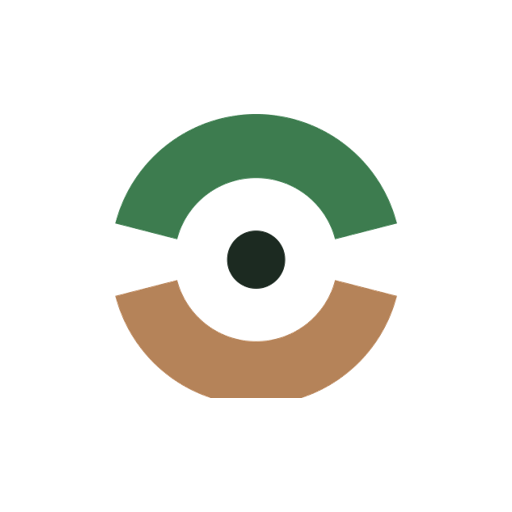
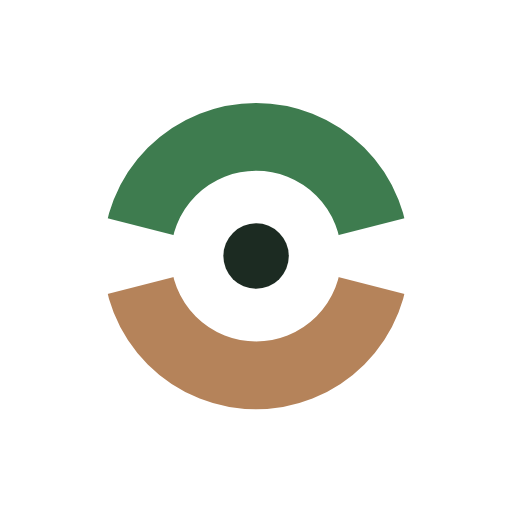
feat(frontend): navegação lateral com marca única e conta unificada
- símbolo da marca redesenhado em SVG (simétrico, sem corte) e ícones
  do app gerados a partir dele
- marca só na barra lateral; o painel começa direto no título da seção
- um único botão de conta (avatar) com idioma, exportação, privacidade,
  sair e excluir conta; sai o rodapé fixo do painel
- item ativo da barra em destaque escuro, como no restante da marca
- sai o botão laranja de nova propriedade do topo do mapa
- seletor de idioma no componente de lista do projeto

diff --git a/frontend/src/pages/Dashboard.tsx b/frontend/src/pages/Dashboard.tsx
@@ -1,8 +1,7 @@
 import {lazy,Suspense,useEffect,useMemo,useState} from 'react'
 import {useQuery,useQueryClient} from '@tanstack/react-query'
 import {useNavigate} from 'react-router-dom'
-import {ArrowUpRight,CalendarDays,Check,ChevronDown,ChevronLeft,CloudSun,Download,Edit3,Grid2X2,Layers3,Leaf,LogOut,MapPinned,MessageSquare,PanelLeftOpen,Plus,Route,Search,Settings2,ShieldCheck,Sparkles,Sprout,Trash2,X} from 'lucide-react'
-import Brand from '../components/Brand'
+import {ArrowUpRight,CalendarDays,Check,ChevronDown,ChevronLeft,CloudSun,Download,Edit3,Grid2X2,Layers3,Leaf,LogOut,MapPinned,MessageSquare,PanelLeftOpen,Plus,Route,Search,ShieldCheck,Sparkles,Sprout,Trash2,X} from 'lucide-react'
 import FarmForm from '../components/FarmForm'
 import LanguagePicker from '../components/LanguagePicker'
 import {TerrainMapView,type ViewMode} from '../components/TerrainMapView'
@@ -36,14 +35,14 @@ export default function Dashboard(){
  async function deleteAccount(){if(!user)return;setBusy(true);setError('');try{await api('/privacy/account',{method:'DELETE',body:JSON.stringify({email:user.email,password})});qc.clear();location.assign('/login')}catch(e){setError((e as Error).message)}finally{setBusy(false)}}
  const declared=layer==='ph'?farm?.soil.ph:layer==='materia_organica'?farm?.soil.organic_matter_percent:layer==='solo'?t(({unknown:'Não informada',sandy:'Arenoso',loamy:'Franco',clayey:'Argiloso',silty:'Siltoso'})[farm?.soil.texture??'unknown']):layer==='cultivo'?t(farm?.crop??''):layer==='irrigacao'?t(({unknown:'Não informado',rainfed:'Sequeiro',irrigated:'Irrigado',mixed:'Misto'})[farm?.soil.irrigation??'unknown']):null
  return <div className={`terra-workspace ${open?'':'panel-closed'}`}>
- <nav className="function-rail" aria-label={t('Navegação principal')}><a className="rail-logo" href={IS_DEMO?'/demo':'/app'} aria-label="TerraTurn"><img src="/favicon.png" alt=""/></a><div className="rail-functions">{NAV.map(n=><button key={n.id} className={panel===n.id&&open?'active':''} title={t(n.label)} aria-label={t(n.label)} aria-expanded={panel===n.id&&open} onClick={()=>{if(panel===n.id)setOpen(!open);else go(n.id)}}><n.icon size={21}/><span>{t(n.label)}</span></button>)}</div><div className="rail-bottom"><button title={t('Configurações')} aria-label={t('Configurações')} onClick={()=>{setError('');setSettings(true)}}><Settings2 size={20}/><span>{t('Configurações')}</span></button><button className="rail-avatar" aria-label={t('Minha conta')} onClick={()=>setSettings(true)}>{user?.name?.slice(0,1).toUpperCase()??'T'}</button></div></nav>
- {open&&<aside className="workspace-panel"><header className="panel-header"><div className="panel-brand"><Brand/><button className="icon-btn" title={t('Recolher painel')} aria-label={t('Recolher painel')} onClick={()=>setOpen(false)}><ChevronLeft size={19}/></button></div><span className="workspace-eyebrow">{t('INTELIGÊNCIA PARA O SOLO')}</span><h1>{t(nav.label)}</h1><p>{t(nav.subtitle)}</p></header>
+ <nav className="function-rail" aria-label={t('Navegação principal')}><a className="rail-logo" href={IS_DEMO?'/demo':'/app'} aria-label="TerraTurn"><img src="/brand-mark.svg" alt=""/></a><div className="rail-functions">{NAV.map(n=><button key={n.id} className={panel===n.id&&open?'active':''} title={t(n.label)} aria-label={t(n.label)} aria-expanded={panel===n.id&&open} onClick={()=>{if(panel===n.id)setOpen(!open);else go(n.id)}}><n.icon size={21}/><span>{t(n.label)}</span></button>)}</div><div className="rail-bottom"><button className="rail-avatar" title={t('Conta e preferências')} aria-label={t('Conta e preferências')} onClick={()=>{setError('');setSettings(true)}}>{user?.name?.slice(0,1).toUpperCase()??'T'}<span>{t('Conta e preferências')}</span></button></div></nav>
+ {open&&<aside className="workspace-panel"><header className="panel-header"><div className="panel-brand"><span className="workspace-eyebrow">{t('INTELIGÊNCIA PARA O SOLO')}</span><button className="icon-btn" title={t('Recolher painel')} aria-label={t('Recolher painel')} onClick={()=>setOpen(false)}><ChevronLeft size={19}/></button></div><h1>{t(nav.label)}</h1><p>{t(nav.subtitle)}</p></header>
  {farm&&panel!=='properties'&&<div className="property-select-wrap"><button className="property-selector" aria-expanded={picker} onClick={()=>setPicker(!picker)}><span className="property-select-icon"><Leaf size={17}/></span><span><strong>{farm.name}</strong><small>{farm.municipality} · {formatHa(farm.area_ha)}</small></span><ChevronDown size={16}/></button>{picker&&<div className="workspace-farm-dropdown">{farms.map(f=><button key={f.id} onClick={()=>{select(f.id);setPicker(false)}}>{f.name}{f.id===farm.id&&<Check size={14}/>}</button>)}<button onClick={()=>{setPicker(false);newFarm()}}><Plus size={14}/>{t('Nova propriedade')}</button></div>}</div>}
  <div className="workspace-panel-scroll" tabIndex={0} aria-label={t(nav.label)+' · '+t('conteúdo')}>
  {farmsQuery.isPending?<div className="empty-block">{t('Carregando...')}</div>:farmsQuery.isError?<div className="empty-block"><p>{t('Não foi possível carregar as propriedades.')}</p><button className="btn btn-outline" onClick={()=>farmsQuery.refetch()}>{t('Tentar novamente')}</button></div>:panel==='properties'?<div className="panel-stack"><label className="workspace-search"><Search size={16}/><input aria-label={t('Buscar propriedade')} placeholder={t('Buscar propriedade')} value={search} onChange={e=>setSearch(e.target.value)}/></label><button className="btn btn-primary btn-wide" onClick={newFarm}><Plus size={16}/>{t('Nova propriedade')}</button><div className="section-line">{t('SUAS PROPRIEDADES')}<span>{farms.length}</span></div>{farms.filter(f=>(f.name+' '+f.municipality).toLocaleLowerCase().includes(search.toLocaleLowerCase())).map(f=><article className={`property-card ${f.id===farm?.id?'selected':''}`} key={f.id}><button className="property-card-main" onClick={()=>select(f.id)}><div className="property-art"><Sprout size={24}/><span>{formatHa(f.area_ha)}</span></div><strong>{f.name}</strong><small>{f.municipality} · {f.state}</small><p>{f.crop?t(f.crop):t('Cultura a definir pela IA')}</p></button><footer><button onClick={()=>setEditor({farm:f})}><Edit3 size={13}/>{t('Editar')}</button><button title={t('Excluir propriedade')} aria-label={t('Excluir propriedade')+' '+f.name} onClick={()=>{setError('');setRemoving(f)}}><Trash2 size={14}/></button></footer></article>)}{!farms.length&&<p className="fine-print">{t('Nenhuma propriedade cadastrada ainda.')}</p>}</div>:!farm?<div className="empty-block"><Sprout size={32}/><h2>{t('Vamos começar pela sua terra.')}</h2><button className="btn btn-primary" onClick={newFarm}>{t('Cadastrar propriedade')}</button></div>:panel==='overview'?<OverviewPanel farm={farm} context={context} onPlan={()=>go('planning')} onEdit={edit}/>:panel==='planning'?<PlanningPanel key={farm.id+farm.updated_at} farm={farm} context={context} onEdit={edit} onRefresh={()=>contextQuery.refetch()}/>:panel==='climate'?<ClimatePanel context={context} onRefresh={()=>contextQuery.refetch()} isFetching={contextQuery.isFetching} error={contextQuery.isError}/>:panel==='layers'?<LayersPanel/>:<Assistant key={farm.id} farm={farm} onEdit={edit} onNew={newFarm} onChangeCrop={changeCrop}/>}
- </div><footer className="panel-footer"><span><i/>{t(IS_DEMO?'DEMONSTRAÇÃO · DADOS LOCAIS':'ÁREA DE TRABALHO PRIVADA')}</span><LanguagePicker/></footer></aside>}
+ </div></aside>}
  <main className={`workspace-map ${calendar?'with-calendar':''}`}><div className="map-stage">{farm?(view==='3d'?<Suspense fallback={<div className="map-loading">{t('Carregando terreno...')}</div>}><TerrainPlot farm={farm} monthIndex={(Number(farm.planning.start_month.slice(5))-1+month)%12} layer={layer} onInspect={()=>setInspect(true)}/></Suspense>:<><TerrainMapView farm={farm} mode={view} onInspect={()=>setInspect(true)}/>{view==='hybrid'&&<div className="hybrid-3d-overlay"><Suspense fallback={null}><TerrainPlot farm={farm} monthIndex={(Number(farm.planning.start_month.slice(5))-1+month)%12} layer={layer} transparent/></Suspense></div>}</>):<div className="empty-map"><div className="contour contour-one"/><div className="contour contour-two"/><Sprout size={46}/><h2>{t('Sua próxima safra começa aqui.')}</h2><p>{t('Desenhe sua área e prepare seu planejamento.')}</p><button className="btn btn-primary" onClick={newFarm}><Plus size={16}/>{t('Cadastrar propriedade')}</button></div>}</div>
- <div className="map-toolbar"><div className="map-toolbar-leading">{!open&&<button className="map-square" title={t('Abrir painel')} aria-label={t('Abrir painel')} onClick={()=>setOpen(true)}><PanelLeftOpen size={19}/></button>}<button className="map-search" onClick={()=>go('properties')}><Search size={17}/><span>{t('Encontre sua propriedade')}</span><kbd>⌕</kbd></button></div><div className="map-toolbar-actions"><button className="map-add" onClick={newFarm}><Plus size={17}/><span>{t('Nova propriedade')}</span></button><button className="map-export" disabled={!farm} onClick={()=>farm&&downloadJson(farm,'terraturn-propriedade.json')}><Download size={16}/><span>{t('Exportar')}</span></button></div></div>
+ <div className="map-toolbar"><div className="map-toolbar-leading">{!open&&<button className="map-square" title={t('Abrir painel')} aria-label={t('Abrir painel')} onClick={()=>setOpen(true)}><PanelLeftOpen size={19}/></button>}<button className="map-search" onClick={()=>go('properties')}><Search size={17}/><span>{t('Encontre sua propriedade')}</span><kbd>⌕</kbd></button></div><div className="map-toolbar-actions"><button className="map-export" disabled={!farm} onClick={()=>farm&&downloadJson(farm,'terraturn-propriedade.json')}><Download size={16}/><span>{t('Exportar')}</span></button></div></div>
  {farm&&<><div className="map-view-switch" aria-label={t('VISUALIZAÇÃO')}>{([['satellite','Satélite'],['map','Mapa'],['relief','Relevo'],['3d','3D'],['hybrid','3D + mapa']] as [ViewMode,string][]).map(([v,label])=><button key={v} disabled={(v==='3d'||v==='hybrid')&&!hasWebGL()} title={(v==='3d'||v==='hybrid')&&!hasWebGL()?t('Seu navegador não oferece aceleração 3D.'):t(label)} className={v===view?'active':''} onClick={()=>setView(v)}>{t(label)}</button>)}</div>
  {inspect&&<section className="parcel-inspector"><header><span className="parcel-icon"><Sprout size={18}/></span><div><small>{t('ÁREA DE CULTIVO')}</small><h2>{farm.name}</h2></div><button className="icon-btn" aria-label={t('Fechar detalhes')} onClick={()=>setInspect(false)}><X size={15}/></button></header><div className="parcel-crop"><span>{t('Cultura inicial / atual')}</span><strong>{farm.crop?t(farm.crop):t('A definir pela IA')}</strong><small>{formatHa(farm.area_ha)} · {t('Perímetro cadastrado')}</small></div><div className="parcel-data"><span>{t('CONDIÇÕES DECLARADAS')}</span><dl><div><dt>{t('pH do solo')}</dt><dd>{farm.soil.ph??'—'}</dd></div><div><dt>{t('Matéria orgânica')}</dt><dd>{farm.soil.organic_matter_percent==null?'—':farm.soil.organic_matter_percent+'%'}</dd></div><div><dt>{t('Cultura anterior')}</dt><dd>{farm.previous_crop?t(farm.previous_crop):'—'}</dd></div></dl></div><button className="parcel-insight" onClick={()=>go('planning')}><span><Sparkles size={14}/>{t('Planejamento com IA')}<ArrowUpRight size={14}/></span><p>{t(context?.plan.status==='ready'?'Sequência disponível para revisão.':'Gere a rotação recomendada pela IA com dados da NASA.')}</p></button><button className="parcel-edit" onClick={edit}><Edit3 size={13}/>{t('Editar contexto agrícola')}</button></section>}
  <div className="map-bottom-tools"><button className="map-layer-legend" onClick={()=>go('layers')}><Layers3 size={15}/><span><strong>{t(activeLayer.label)}{declared!=null&&declared!==''?' · '+declared:''}</strong><small>{t(activeLayer.status==='pending'?'Aguardando dados':activeLayer.status==='declared'?'Dado declarado':'Visualização ilustrativa')}</small></span><ChevronDown size={14}/></button><button className="map-square" aria-label={t(calendar?'Ocultar calendário':'Mostrar calendário')} aria-pressed={calendar} title={t('Calendário de cultivos')} onClick={()=>setCalendar(!calendar)}><CalendarDays size={19}/></button></div>
@@ -51,6 +50,6 @@ export default function Dashboard(){
  </main>{action&&<div className="workspace-toast" role="status"><Check size={16}/>{action}<button aria-label={t('Fechar')} onClick={()=>notify('')}><X size={14}/></button></div>}
  {editor&&<FarmForm farm={editor.farm} onClose={()=>setEditor(null)} onSaved={saved}/>}
  {removing&&<Dialog title={t('Excluir propriedade')} onClose={()=>!busy&&setRemoving(null)}><p>{t('Esta ação remove a propriedade e seu planejamento.')} <strong>{removing.name}</strong></p>{error&&<p className="form-error">{error}</p>}<div className="dialog-actions"><button className="btn btn-outline" onClick={()=>setRemoving(null)} disabled={busy}>{t('Cancelar')}</button><button className="btn btn-danger" onClick={remove} disabled={busy}>{t(busy?'Excluindo...':'Excluir propriedade')}</button></div></Dialog>}
- {settings&&<Dialog title={t('Conta e preferências')} onClose={()=>{setSettings(false);setDeleteAccountOpen(false)}}><div className="settings-intro"><ShieldCheck size={28}/><div><strong>{user?.name??'TerraTurn · Demo'}</strong><p>{IS_DEMO?t('Ambiente demonstrativo. Alterações ficam neste navegador.'):user?.email}</p></div></div><div className="setting-row"><span>{t('Idioma')}</span><LanguagePicker/></div><button className="btn btn-outline btn-wide" onClick={exportAll}><Download size={16}/>{t('Exportar meus dados')}</button>{!IS_DEMO&&<><button className="btn btn-outline btn-wide" onClick={async()=>{await logout();qc.clear();navigate('/login')}}><LogOut size={16}/>{t('Sair')}</button><button className="text-action danger" onClick={()=>setDeleteAccountOpen(!deleteAccountOpen)}>{t('Excluir minha conta')}</button>{deleteAccountOpen&&<div className="account-delete"><p>{t('Esta operação elimina os dados cadastrados da aplicação. Confirme sua senha para continuar.')}</p><input type="password" autoComplete="current-password" placeholder={t('Confirme sua senha')} aria-label={t('Confirme sua senha')} value={password} onChange={e=>setPassword(e.target.value)}/><button className="btn btn-danger" disabled={busy||!password} onClick={deleteAccount}>{t('Excluir conta e propriedades')}</button></div>}</>}{error&&<p className="form-error" role="alert">{error}</p>}</Dialog>}
+ {settings&&<Dialog title={t('Conta e preferências')} onClose={()=>{setSettings(false);setDeleteAccountOpen(false)}}><div className="settings-intro"><span className="settings-avatar">{user?.name?.slice(0,1).toUpperCase()??'T'}</span><div><strong>{user?.name??'TerraTurn · Demo'}</strong><p>{IS_DEMO?t('Ambiente demonstrativo. Alterações ficam neste navegador.'):user?.email}</p></div></div><LanguagePicker full/><p className="settings-private"><ShieldCheck size={14}/>{t(IS_DEMO?'DEMONSTRAÇÃO · DADOS LOCAIS':'ÁREA DE TRABALHO PRIVADA')}</p><button className="btn btn-outline btn-wide" onClick={exportAll}><Download size={16}/>{t('Exportar meus dados')}</button>{!IS_DEMO&&<><button className="btn btn-outline btn-wide" onClick={async()=>{await logout();qc.clear();navigate('/login')}}><LogOut size={16}/>{t('Sair')}</button><button className="text-action danger" onClick={()=>setDeleteAccountOpen(!deleteAccountOpen)}>{t('Excluir minha conta')}</button>{deleteAccountOpen&&<div className="account-delete"><p>{t('Esta operação elimina os dados cadastrados da aplicação. Confirme sua senha para continuar.')}</p><input type="password" autoComplete="current-password" placeholder={t('Confirme sua senha')} aria-label={t('Confirme sua senha')} value={password} onChange={e=>setPassword(e.target.value)}/><button className="btn btn-danger" disabled={busy||!password} onClick={deleteAccount}>{t('Excluir conta e propriedades')}</button></div>}</>}{error&&<p className="form-error" role="alert">{error}</p>}</Dialog>}
  </div>
 }

diff --git a/frontend/src/workspace.css b/frontend/src/workspace.css
@@ -36,3 +36,31 @@
 .base-toggle button{border:0;background:transparent;border-radius:5px;padding:6px 9px;font-size:10px;font-weight:700;color:#5d6b61}
 .base-toggle button.active{background:#1C2B22;color:#fff}
 .picker-map .maplibregl-ctrl-attrib{font-size:9px}
+.brand{display:inline-flex;align-items:center;gap:9px;text-decoration:none}
+.brand-mark-img{width:34px;height:34px;display:block}
+.brand .brand-word{font-size:23px;font-weight:700;letter-spacing:-.05em;color:#1C2B22;line-height:1}
+.brand .brand-word span{color:#3E7C4F}
+.brand.on-dark .brand-word{color:#F2EDE4}
+.brand.on-dark .brand-word span{color:#9fd3a9}
+.brand.compact .brand-mark-img{width:28px;height:28px}
+.brand.compact .brand-word{font-size:19px}
+.rail-logo img{width:34px;height:34px}
+.function-rail button.active{background:#1C2B22;color:#fff;box-shadow:0 6px 14px #1c2b2226}
+.function-rail button:not(.active){color:#6f7c72}
+.function-rail .rail-avatar{width:40px;height:40px;border-radius:50%;background:#e6f0e7;color:#2f5d3b;border:2px solid #fff;outline:1px solid #c9d6c8;font-weight:700;font-size:14px}
+.function-rail .rail-avatar:hover{outline-color:#3E7C4F}
+.panel-brand{display:flex;align-items:center;justify-content:space-between;gap:10px;margin-bottom:6px}
+.panel-brand .workspace-eyebrow{margin:0}
+.settings-intro{display:flex;align-items:center;gap:12px}
+.settings-avatar{width:44px;height:44px;border-radius:50%;display:grid;place-items:center;background:#e6f0e7;color:#2f5d3b;font-weight:700;font-size:17px;flex-shrink:0}
+.settings-private{display:flex;align-items:center;gap:6px;font-size:10px;letter-spacing:.08em;color:#6f8a74;margin:2px 0 6px}
+.language-picker.full{width:100%}
+.language-picker.full .combobox-field{margin-bottom:6px}
+.language-picker.compact{display:inline-flex;align-items:center;gap:6px;color:#3E7C4F}
+.language-picker.compact .combobox-field{margin:0;min-width:74px}
+.language-picker.compact .select-trigger{height:32px;font-size:11px;font-weight:700;padding:0 26px 0 9px}
+.language-picker.compact .combobox-chevron{right:7px}
+.language-picker.compact .combobox-options{min-width:90px}
+.language-picker.full,.language-picker.compact{border:0;background:none;padding:0;box-shadow:none;min-height:0}
+.language-picker.full .select-trigger{width:100%}
+.language-picker.full .combobox-field,.language-picker.full .combobox-wrap{width:100%}

diff --git a/frontend/src/pages/AuthPages.tsx b/frontend/src/pages/AuthPages.tsx
@@ -52,7 +52,7 @@ export function AuthPage({mode}:{mode:Mode}) {
         <p className="auth-subtitle">{t({login:'Acesse suas propriedades e continue de onde parou.',register:'Crie uma conta e comece a mapear suas propriedades.',forgot:'Enviaremos um link temporário para seu e-mail cadastrado.',reset:'Sua nova senha deve conter pelo menos 10 caracteres.'}[mode])}</p>
         <form onSubmit={submit} className="auth-form">
           {mode==='register'&&<label>{t('Nome completo')}<input required autoComplete="name" minLength={2} value={name} onChange={e=>setName(e.target.value)} placeholder={t('Como podemos chamar você?')} /></label>}
-          {mode!=='reset'&&<label>{t('E-mail')}<span className="field-with-icon"><Mail size={17}/><input required type="email" autoComplete="email" value={email} onChange={e=>setEmail(e.target.value)} placeholder="seuemail@exemplo.com"/></span></label>}
+          {mode!=='reset'&&<label>{t('E-mail')}<span className="field-with-icon"><Mail size={17}/><input required type="email" autoComplete="email" value={email} onChange={e=>setEmail(e.target.value)} placeholder={t('seuemail@exemplo.com')}/></span></label>}
           {mode!=='forgot'&&<label>{t(mode==='login'?'Senha':'Senha (mínimo 10 caracteres)')}<span className="field-with-icon"><LockKeyhole size={17}/><input required minLength={mode==='login'?1:10} maxLength={128} type={showPassword?'text':'password'} autoComplete={mode==='login'?'current-password':'new-password'} value={password} onChange={e=>setPassword(e.target.value)} placeholder="••••••••••"/><button type="button" className="field-icon-btn" onClick={()=>setShowPassword(!showPassword)} aria-label={showPassword?'Ocultar senha':'Mostrar senha'}>{showPassword?<EyeOff size={17}/>:<Eye size={17}/>}</button></span></label>}
           {mode==='register' && <label className="check-label"><input type="checkbox" checked={agree} onChange={e=>setAgree(e.target.checked)} required/> <span>{t('Li o')} <Link to="/privacy" target="_blank">{t('aviso de privacidade')}</Link> {t('e estou ciente de como meus dados serão utilizados.')}</span></label>}
           {mode==='login'&&<div className="form-inline end"><Link to="/forgot-password">{t('Esqueci minha senha')}</Link></div>}

diff --git a/frontend/src/components/Select.tsx b/frontend/src/components/Select.tsx
@@ -2,9 +2,9 @@ import { useEffect, useId, useRef, useState } from 'react'
 import { Check, ChevronDown } from 'lucide-react'
 
 export type SelectItem = { code: string; name: string }
-type Props = { label: string; items: SelectItem[]; value: string; onChange: (code: string) => void; placeholder?: string; disabled?: boolean }
+type Props = { label: string; items: SelectItem[]; value: string; onChange: (code: string) => void; placeholder?: string; disabled?: boolean; hideLabel?: boolean }
 
-export default function Select({ label, items, value, onChange, placeholder, disabled }: Props) {
+export default function Select({ label, items, value, onChange, placeholder, disabled, hideLabel }: Props) {
   const id = useId(), ref = useRef<HTMLDivElement>(null), btn = useRef<HTMLButtonElement>(null)
   const [open, setOpen] = useState(false), [active, setActive] = useState(0)
   const index = Math.max(0, items.findIndex(i => i.code === value))
@@ -22,7 +22,7 @@ export default function Select({ label, items, value, onChange, placeholder, dis
     else if (e.key === 'Escape') setOpen(false)
   }
   return <div ref={ref} className="combobox-field">
-    <span id={id + '-label'} className="input-label">{label}</span>
+    <span id={id + '-label'} className={hideLabel ? 'sr-only' : 'input-label'}>{label}</span>
     <div className="combobox-wrap">
       <button ref={btn} type="button" className="select-trigger" aria-haspopup="listbox" aria-expanded={open} aria-labelledby={id + '-label'} aria-controls={id + '-choices'} disabled={disabled} onClick={() => open ? setOpen(false) : show()} onKeyDown={keys}>
         <span className={chosen ? '' : 'placeholder'}>{chosen?.name ?? placeholder ?? ''}</span>

diff --git a/frontend/src/components/LanguagePicker.tsx b/frontend/src/components/LanguagePicker.tsx
@@ -1,6 +1,9 @@
 import { Languages } from 'lucide-react'
 import { useI18n, useLanguage, type Language } from '../lib/i18n'
-export default function LanguagePicker(){
+import Select from './Select'
+const ITEMS=[{code:'en',name:'English'},{code:'pt-BR',name:'Português'},{code:'es',name:'Español'}]
+export default function LanguagePicker({full=false}:{full?:boolean}){
  const {language,t}=useI18n(),setLanguage=useLanguage(s=>s.setLanguage)
- return <label className="language-picker" title={t('Idioma')}><Languages size={16}/><span className="sr-only">{t('Idioma')}</span><select aria-label={t('Idioma')} value={language} onChange={e=>setLanguage(e.target.value as Language)}><option value="pt-BR">PT</option><option value="en">EN</option><option value="es">ES</option></select></label>
+ if(full)return <div className="language-picker full"><Select label={t('Idioma')} value={language} onChange={v=>setLanguage(v as Language)} items={ITEMS}/></div>
+ return <div className="language-picker compact" title={t('Idioma')}><Languages size={16}/><Select label={t('Idioma')} hideLabel value={language} onChange={v=>setLanguage(v as Language)} items={ITEMS.map(i=>({code:i.code,name:i.code==='pt-BR'?'PT':i.code.toUpperCase()}))}/></div>
 }

diff --git a/frontend/src/lib/i18n.ts b/frontend/src/lib/i18n.ts
@@ -7,6 +7,7 @@ if (typeof document !== 'undefined') document.documentElement.lang=initial
 export const useLanguage = create<{language:Language;setLanguage:(language:Language)=>void}>((set)=>({language:initial,setLanguage:(language)=>{try{localStorage.setItem('terraturn-language',language)}catch{};document.documentElement.lang=language;set({language})}}))
 // Portuguese keys are the original UX copy. Missing translations transparently fall back to PT-BR.
 const translations:Record<string,[string,string]>={
+'seuemail@exemplo.com':['you@example.com','usted@ejemplo.com'],
 'Os dados da propriedade serão acessíveis apenas à sua conta.':['Property data is visible only to your account.','Los datos de la propiedad solo son visibles para su cuenta.'],
 'Localização pelo perímetro':['Location from the boundary','Ubicación por el perímetro'],
 'Localizar um ponto não altera automaticamente o perímetro já desenhado.':['Going to a point does not change the boundary you already drew.','Ir a un punto no cambia el perímetro ya dibujado.'],

diff --git a/frontend/src/components/Brand.tsx b/frontend/src/components/Brand.tsx
@@ -1,7 +1,4 @@
 import {Link} from 'react-router-dom'
-/** Wordmarks extracted from the official TerraTurn Brand Guidelines PDF (page 3).
- * When the team's separate asset ZIP becomes available, replace these PNG assets.
- */
 export default function Brand({compact=false,onDark=false}:{compact?:boolean;onDark?:boolean}){
- return <Link to="/app" className="brand" aria-label="TerraTurn — início"><img className={compact?'brand-image compact':'brand-image'} src={onDark?'/brand-guidelines-dark.png':'/brand-official-guidelines.png'} alt="TerraTurn"/></Link>
+ return <Link to="/app" className={`brand ${onDark?'on-dark':''} ${compact?'compact':''}`} aria-label="TerraTurn — início"><img className="brand-mark-img" src="/brand-mark.svg" alt=""/><span className="brand-word">terra<span>turn</span></span></Link>
 }
